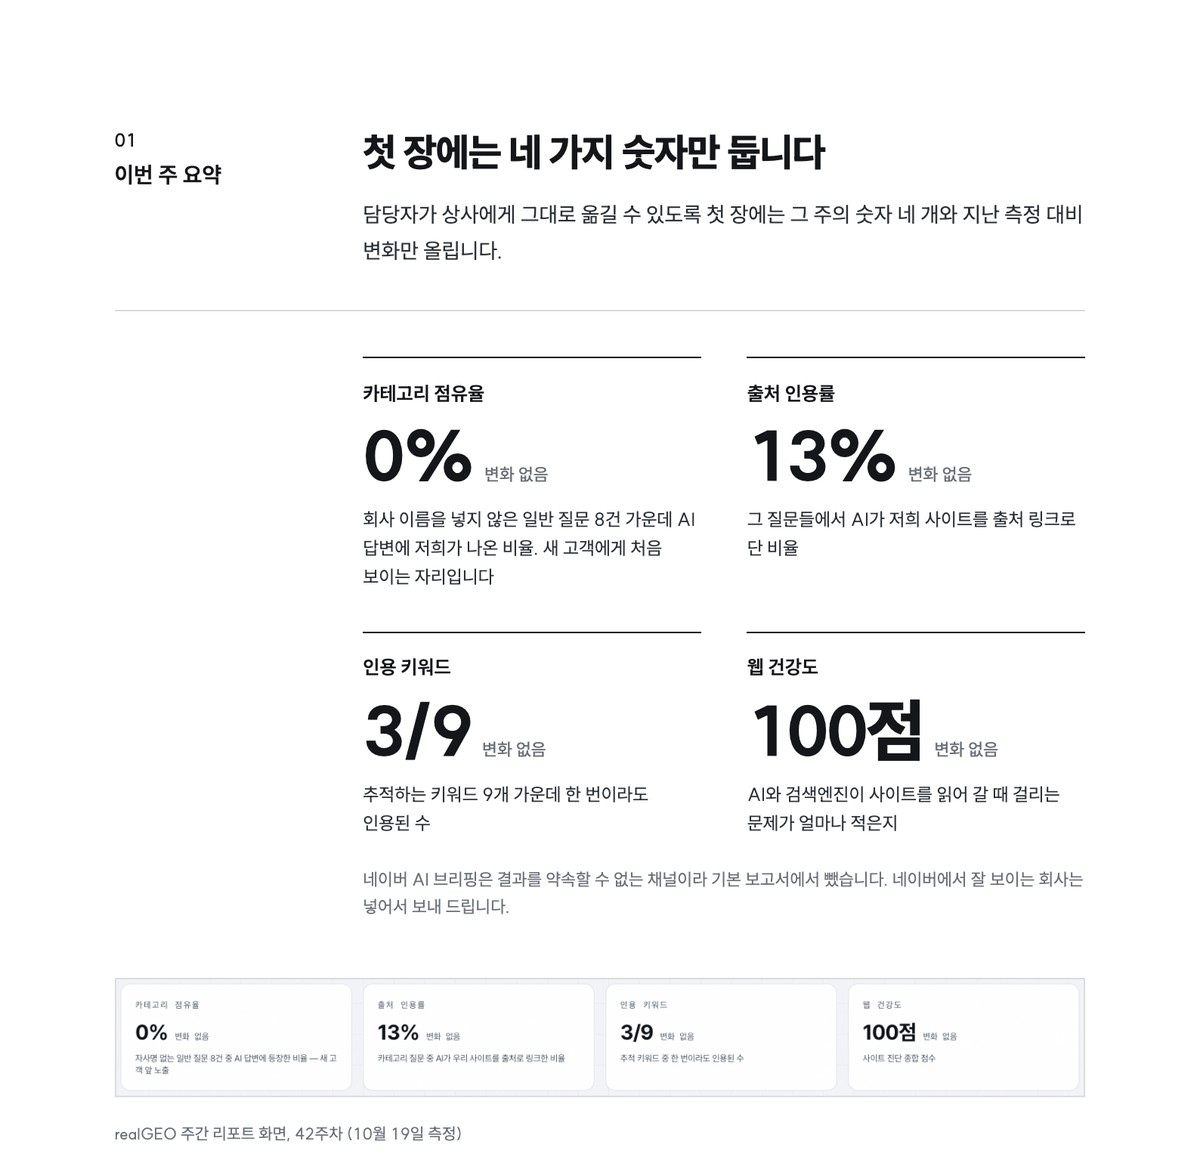
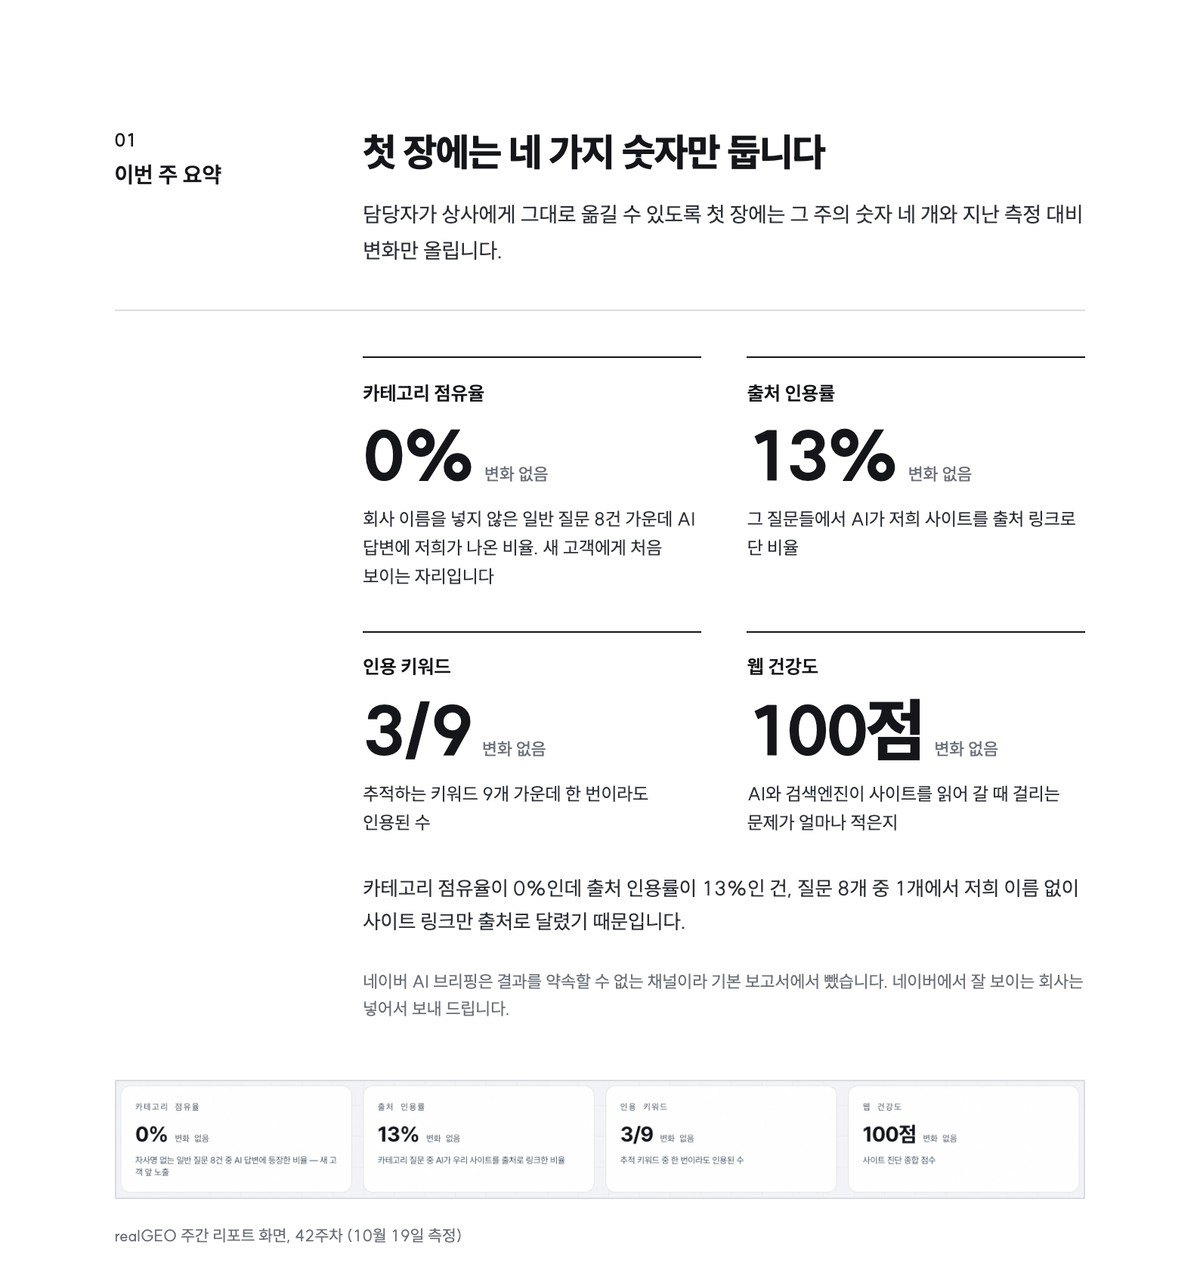
/business 리포트 요약 캡처 교체 (디자이너 재크롭, 1200x1264)

diff --git a/app/(ko)/business/page.tsx b/app/(ko)/business/page.tsx
@@ -65,7 +65,7 @@ const REPORT_SHOTS = [
     alt: "위즈더플래닝 주간 리포트 42주차 요약: 카테고리 점유율 0%, 출처 인용률 13%, 인용 키워드 3/9, 웹 건강도 100점",
     caption: "매주 첫 장. 숫자 네 개와 지난 측정 대비 변화",
     w: 1200,
-    h: 1172,
+    h: 1264,
   },
   {
     src: "/report/business-report-engines.jpg",
